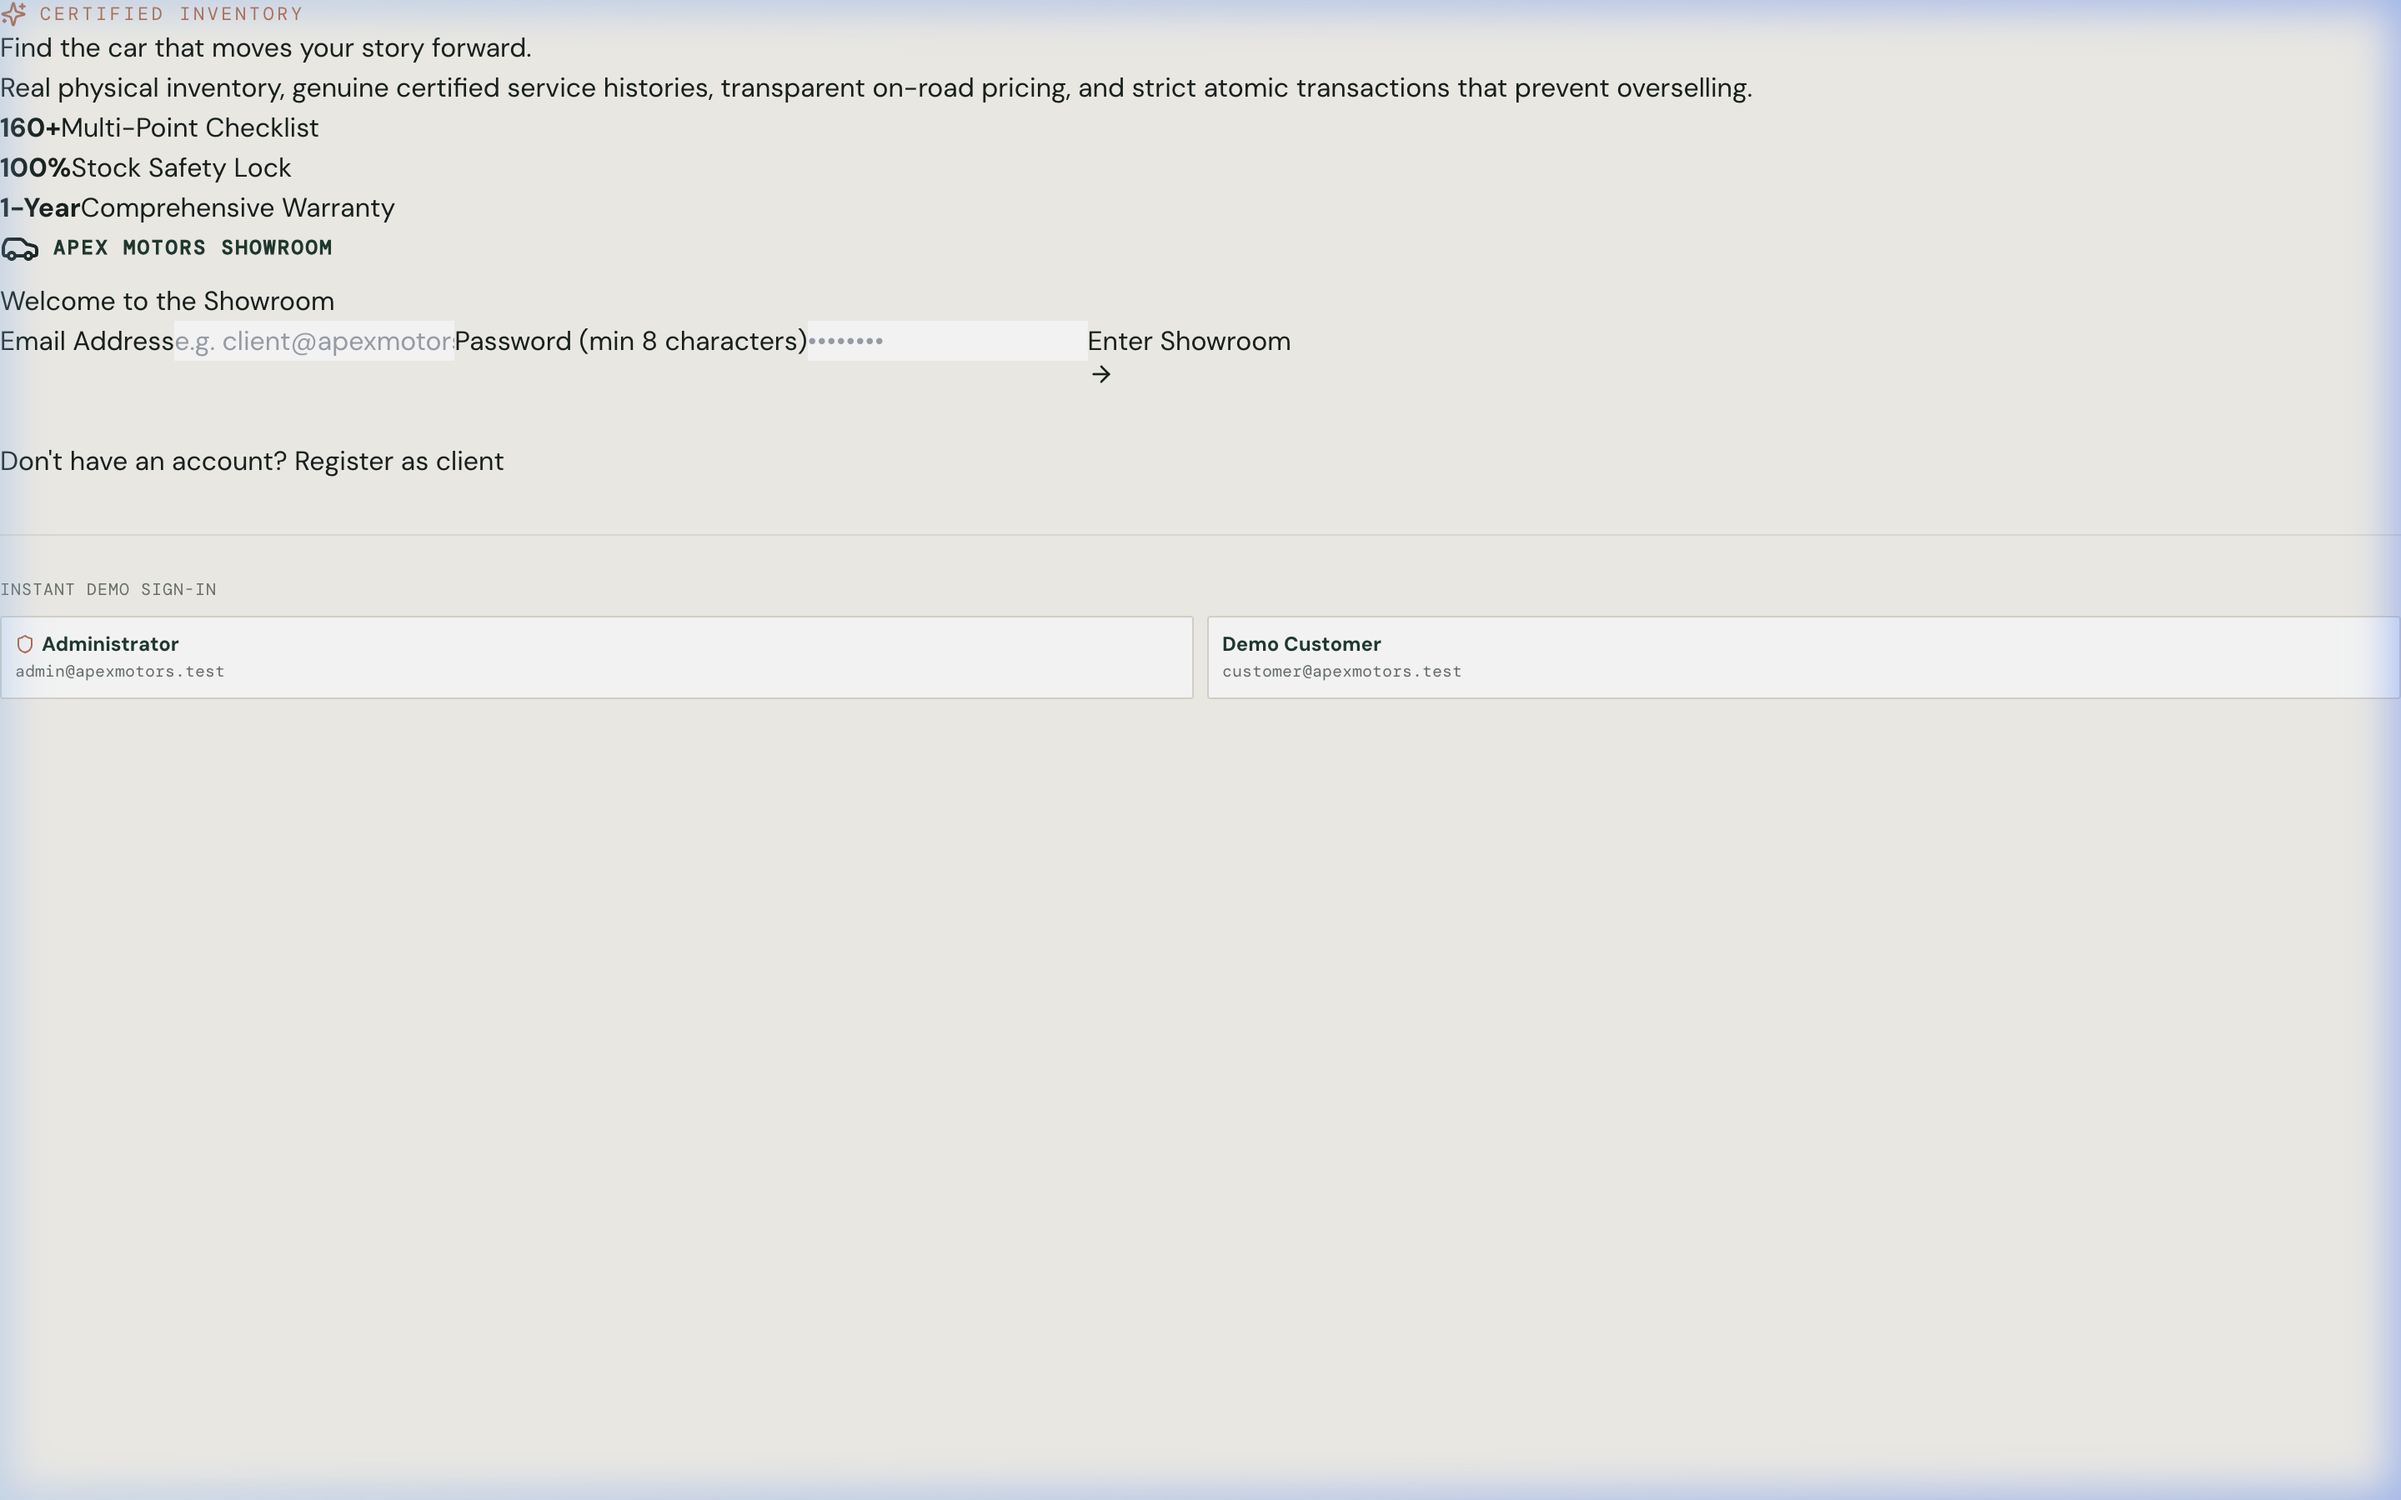
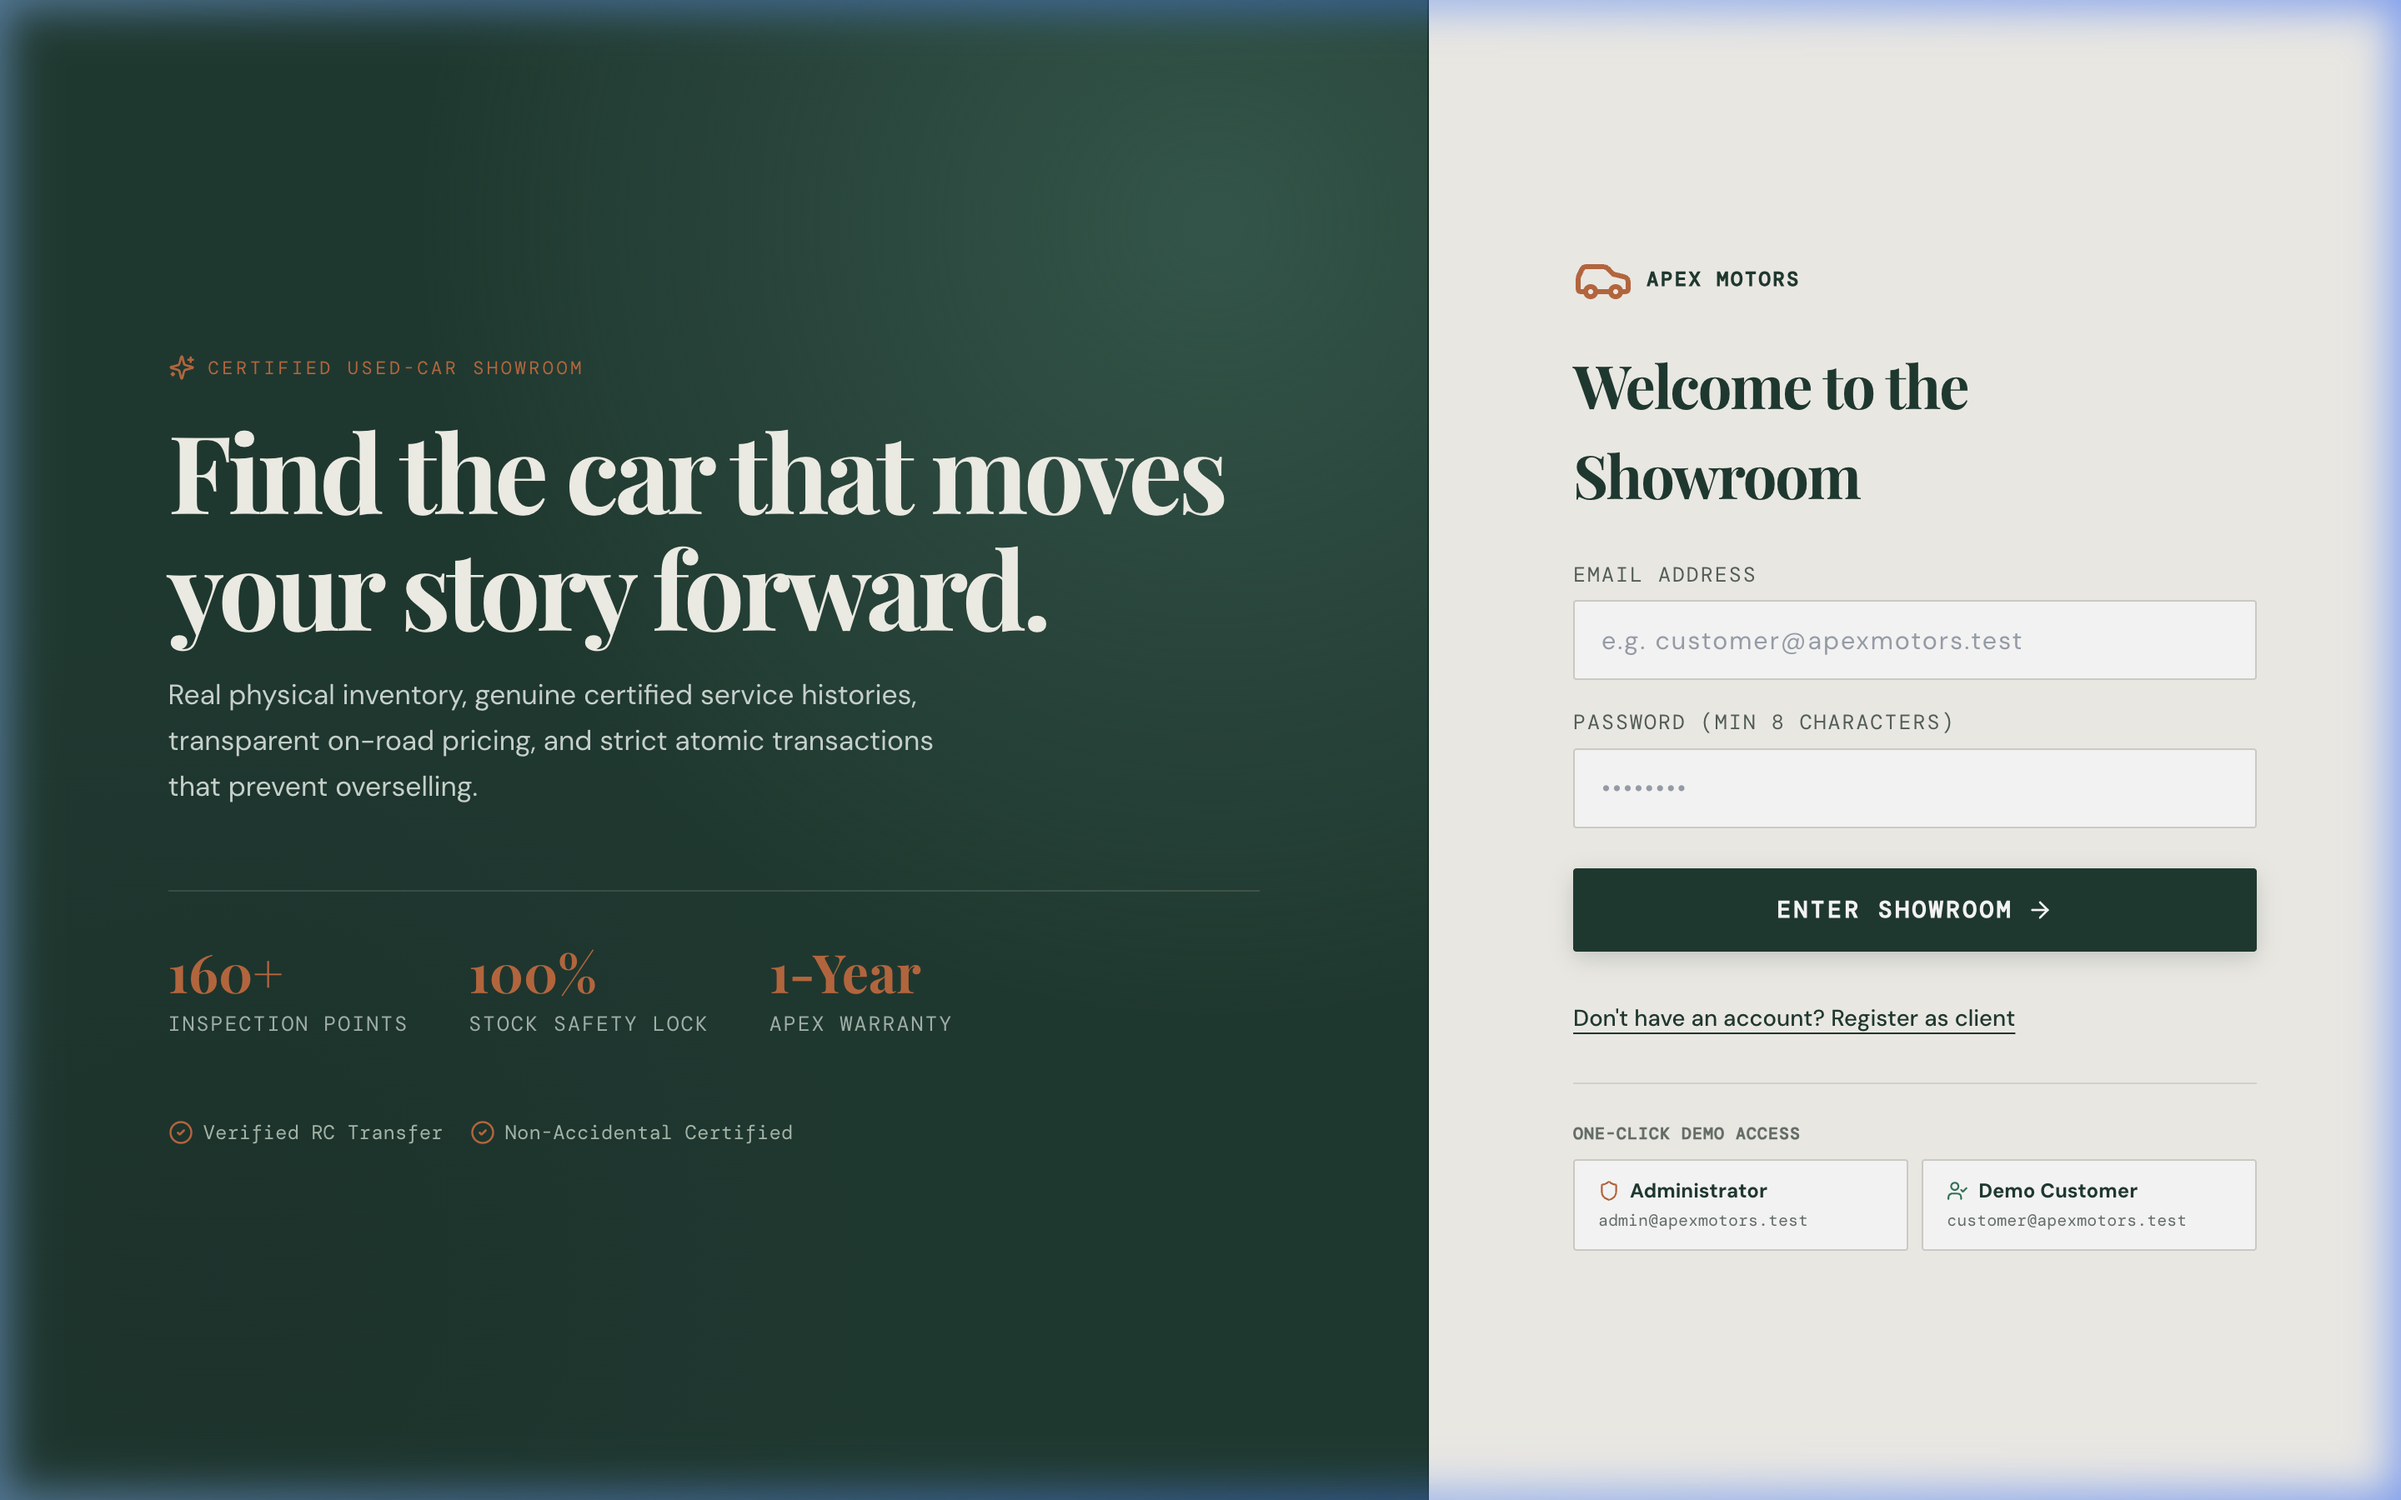
style: polish authentication and client registration styling
- Restore and refine dual-pane auth layout with editorial forest green hero and ivory card
- Add styled input fields with uppercase monospace labels and focus ring transitions
- Add 1-click demo access buttons for Administrator and Customer
- Capture updated verified signin and registration screenshots

diff --git a/frontend/src/components/AuthView.tsx b/frontend/src/components/AuthView.tsx
@@ -1,5 +1,5 @@
 import React, { useState } from 'react';
-import { Car, Sparkles, Shield, ArrowRight, Lock, Mail, User as UserIcon } from 'lucide-react';
+import { Car, Sparkles, Shield, ArrowRight, CheckCircle2, UserCheck } from 'lucide-react';
 import { Session } from '../types';
 
 interface AuthViewProps {
@@ -70,10 +70,10 @@ export const AuthView: React.FC<AuthViewProps> = ({ onAuthenticated, apiBase }) 
 
   return (
     <main className="auth-shell">
-      {/* Editorial Hero Branding */}
+      {/* Editorial Luxury Hero Panel */}
       <section className="hero">
         <span className="eyebrow">
-          <Sparkles size={16} /> CERTIFIED INVENTORY
+          <Sparkles size={16} /> CERTIFIED USED-CAR SHOWROOM
         </span>
         <h1>Find the car that moves your story forward.</h1>
         <p>
@@ -84,7 +84,7 @@ export const AuthView: React.FC<AuthViewProps> = ({ onAuthenticated, apiBase }) 
         <div className="stats">
           <div>
             <b>160+</b>
-            <span>Multi-Point Checklist</span>
+            <span>Inspection Points</span>
           </div>
           <div>
             <b>100%</b>
@@ -92,24 +92,33 @@ export const AuthView: React.FC<AuthViewProps> = ({ onAuthenticated, apiBase }) 
           </div>
           <div>
             <b>1-Year</b>
-            <span>Comprehensive Warranty</span>
+            <span>Apex Warranty</span>
           </div>
+        </div>
+
+        <div className="mt-12 flex items-center gap-4 text-xs font-mono text-[#a8beaf]">
+          <span className="flex items-center gap-1.5">
+            <CheckCircle2 size={15} className="text-[#c96535]" /> Verified RC Transfer
+          </span>
+          <span className="flex items-center gap-1.5">
+            <CheckCircle2 size={15} className="text-[#c96535]" /> Non-Accidental Certified
+          </span>
         </div>
       </section>
 
-      {/* Auth Card Panel */}
+      {/* Auth Card Form Panel */}
       <section className="auth-card">
         <div className="flex items-center gap-2 mb-2">
           <Car className="brand" />
           <span className="font-mono text-xs tracking-widest uppercase text-[#183c32] font-bold">
-            Apex Motors Showroom
+            Apex Motors
           </span>
         </div>
 
         <h2>{isRegister ? 'Create Client Account' : 'Welcome to the Showroom'}</h2>
 
         {errorMessage && (
-          <div className="p-3 mb-4 text-xs bg-rose-50 border border-rose-200 text-rose-800 rounded-sm">
+          <div className="p-3 mb-4 text-xs bg-rose-50 border border-rose-300 text-rose-800 rounded-sm">
             {errorMessage}
           </div>
         )}
@@ -118,15 +127,13 @@ export const AuthView: React.FC<AuthViewProps> = ({ onAuthenticated, apiBase }) 
           {isRegister && (
             <label>
               Full Name
-              <div className="relative">
-                <input
-                  required
-                  type="text"
-                  placeholder="e.g. Mira Nair"
-                  value={form.name}
-                  onChange={(e) => setForm({ ...form, name: e.target.value })}
-                />
-              </div>
+              <input
+                required
+                type="text"
+                placeholder="e.g. Mira Nair"
+                value={form.name}
+                onChange={(e) => setForm({ ...form, name: e.target.value })}
+              />
             </label>
           )}
 
@@ -135,7 +142,7 @@ export const AuthView: React.FC<AuthViewProps> = ({ onAuthenticated, apiBase }) 
             <input
               required
               type="email"
-              placeholder="e.g. client@apexmotors.test"
+              placeholder="e.g. customer@apexmotors.test"
               value={form.email}
               onChange={(e) => setForm({ ...form, email: e.target.value })}
             />
@@ -161,7 +168,7 @@ export const AuthView: React.FC<AuthViewProps> = ({ onAuthenticated, apiBase }) 
 
         <button
           type="button"
-          className="link mt-4 text-left"
+          className="link"
           onClick={() => {
             setIsRegister(!isRegister);
             setErrorMessage('');
@@ -170,30 +177,32 @@ export const AuthView: React.FC<AuthViewProps> = ({ onAuthenticated, apiBase }) 
           {isRegister ? 'Already registered? Sign in instead' : "Don't have an account? Register as client"}
         </button>
 
-        {/* Quick Demo Pre-fill Shortcuts */}
-        <div className="mt-8 pt-6 border-t border-[#ddd9cf]/70 text-xs">
-          <span className="text-[10px] font-mono uppercase tracking-wider text-[#68736d] block mb-2">
-            Instant Demo Sign-in
+        {/* 1-Click Demo Pre-fill Shortcuts */}
+        <div className="demo-box">
+          <span className="text-[10px] font-mono uppercase tracking-wider text-[#68736d] block mb-2 font-semibold">
+            One-Click Demo Access
           </span>
           <div className="flex flex-col sm:flex-row gap-2">
             <button
               type="button"
               onClick={() => handleDemoLogin('admin@apexmotors.test', 'Admin123!')}
-              className="flex-1 p-2 text-left bg-white border border-[#ddd9cf] hover:border-[#183c32] rounded-sm transition-colors"
+              className="demo-btn"
             >
-              <div className="font-semibold text-[#183c32] flex items-center gap-1">
-                <Shield size={12} className="text-[#c96535]" /> Administrator
+              <div className="font-semibold text-[#183c32] flex items-center gap-1.5 text-xs">
+                <Shield size={13} className="text-[#c96535]" /> Administrator
               </div>
-              <div className="text-[10px] font-mono text-[#68736d]">admin@apexmotors.test</div>
+              <div className="text-[10px] font-mono text-[#68736d] mt-0.5">admin@apexmotors.test</div>
             </button>
 
             <button
               type="button"
               onClick={() => handleDemoLogin('customer@apexmotors.test', 'Customer123!')}
-              className="flex-1 p-2 text-left bg-white border border-[#ddd9cf] hover:border-[#183c32] rounded-sm transition-colors"
+              className="demo-btn"
             >
-              <div className="font-semibold text-[#183c32]">Demo Customer</div>
-              <div className="text-[10px] font-mono text-[#68736d]">customer@apexmotors.test</div>
+              <div className="font-semibold text-[#183c32] flex items-center gap-1.5 text-xs">
+                <UserCheck size={13} className="text-emerald-700" /> Demo Customer
+              </div>
+              <div className="text-[10px] font-mono text-[#68736d] mt-0.5">customer@apexmotors.test</div>
             </button>
           </div>
         </div>

diff --git a/frontend/src/styles.css b/frontend/src/styles.css
@@ -274,3 +274,218 @@ header.hero-header em {
     transform: translateY(0) scale(1);
   }
 }
+
+/* ==================== AUTHENTICATION & LOGIN PAGE ==================== */
+.auth-shell {
+  min-height: 100vh;
+  display: grid;
+  grid-template-columns: 1.25fr 0.85fr;
+  background-color: var(--color-bg);
+}
+
+.hero {
+  padding: 8vw 7vw;
+  background-color: var(--color-primary);
+  color: #f8f5ed;
+  background-image:
+    radial-gradient(circle at 85% 15%, #2a5a4c 0%, transparent 45%),
+    radial-gradient(circle at 15% 85%, #16362d 0%, transparent 40%);
+  display: flex;
+  flex-direction: column;
+  justify-content: center;
+  position: relative;
+  overflow: hidden;
+  border-right: 1px solid #14332b;
+}
+
+.hero h1 {
+  font-family: 'Playfair Display', Georgia, serif;
+  font-size: clamp(2.4rem, 4.5vw, 4.2rem);
+  line-height: 1.08;
+  margin: 18px 0 16px;
+  letter-spacing: -0.04em;
+  font-weight: 700;
+  color: #f8f5ed;
+}
+
+.hero p:not(.eyebrow) {
+  max-width: 480px;
+  color: #cddbd4;
+  font-size: 1.05rem;
+  line-height: 1.65;
+}
+
+.stats {
+  margin-top: 48px;
+  display: flex;
+  gap: 36px;
+  flex-wrap: wrap;
+  padding-top: 32px;
+  border-top: 1px solid rgba(255, 255, 255, 0.12);
+}
+
+.stats div {
+  display: flex;
+  flex-direction: column;
+}
+
+.stats b {
+  color: var(--color-accent);
+  font-size: 2rem;
+  font-family: 'Playfair Display', Georgia, serif;
+  font-weight: 700;
+  line-height: 1;
+}
+
+.stats span {
+  font-size: 0.78rem;
+  font-family: 'DM Mono', monospace;
+  text-transform: uppercase;
+  letter-spacing: 0.08em;
+  color: #a4b8af;
+  margin-top: 6px;
+}
+
+.auth-card {
+  padding: 60px max(6vw, 32px);
+  display: flex;
+  flex-direction: column;
+  justify-content: center;
+  background-color: var(--color-bg);
+  min-height: 100vh;
+}
+
+.auth-card .brand {
+  width: 36px;
+  height: 36px;
+  color: var(--color-accent);
+}
+
+.auth-card h2 {
+  font-family: 'Playfair Display', Georgia, serif;
+  font-size: 2.25rem;
+  margin: 10px 0 24px;
+  color: var(--color-primary);
+  letter-spacing: -0.03em;
+  font-weight: 700;
+}
+
+.auth-card form {
+  display: flex;
+  flex-direction: column;
+  gap: 16px;
+}
+
+.auth-card label {
+  font-size: 0.78rem;
+  font-family: 'DM Mono', monospace;
+  text-transform: uppercase;
+  letter-spacing: 0.08em;
+  color: #55625c;
+  display: flex;
+  flex-direction: column;
+  gap: 6px;
+}
+
+.auth-card input {
+  height: 48px;
+  padding: 0 16px;
+  border: 1px solid #d7d4cc;
+  background: #ffffff;
+  color: #17221f;
+  font-size: 0.95rem;
+  font-family: 'DM Sans', sans-serif;
+  border-radius: 2px;
+  outline: none;
+  transition: all 0.2s ease;
+}
+
+.auth-card input:focus {
+  border-color: var(--color-primary);
+  box-shadow: 0 0 0 3px rgba(24, 60, 50, 0.12);
+}
+
+.auth-card form button {
+  height: 50px;
+  background-color: var(--color-primary);
+  color: #ffffff;
+  border: none;
+  border-radius: 2px;
+  font-size: 0.88rem;
+  font-family: 'DM Mono', monospace;
+  text-transform: uppercase;
+  letter-spacing: 0.12em;
+  font-weight: 600;
+  display: flex;
+  align-items: center;
+  justify-content: center;
+  gap: 8px;
+  margin-top: 8px;
+  box-shadow: 0 4px 14px rgba(24, 60, 50, 0.2);
+  transition: all 0.25s ease;
+}
+
+.auth-card form button:hover {
+  background-color: var(--color-primary-light);
+  transform: translateY(-1px);
+  box-shadow: 0 6px 20px rgba(24, 60, 50, 0.28);
+}
+
+.auth-card form button:disabled {
+  background-color: #c5cac7;
+  cursor: not-allowed;
+  transform: none;
+  box-shadow: none;
+}
+
+.auth-card .link {
+  background: none;
+  border: none;
+  color: var(--color-primary);
+  font-size: 0.86rem;
+  text-decoration: underline;
+  text-underline-offset: 4px;
+  text-align: left;
+  margin-top: 14px;
+  padding: 0;
+  font-weight: 500;
+}
+
+.auth-card .link:hover {
+  color: var(--color-accent);
+}
+
+.auth-card .demo-box {
+  margin-top: 28px;
+  padding-top: 22px;
+  border-top: 1px solid #dfdbd2;
+}
+
+.auth-card .demo-btn {
+  background: #ffffff;
+  border: 1px solid #d7d4cc;
+  padding: 10px 14px;
+  border-radius: 2px;
+  text-align: left;
+  transition: all 0.2s ease;
+  flex: 1;
+}
+
+.auth-card .demo-btn:hover {
+  border-color: var(--color-primary);
+  box-shadow: 0 2px 8px rgba(24, 60, 50, 0.08);
+}
+
+@media (max-width: 860px) {
+  .auth-shell {
+    grid-template-columns: 1fr;
+  }
+  .hero {
+    padding: 60px 24px;
+  }
+  .auth-card {
+    padding: 40px 24px 60px;
+    min-height: auto;
+  }
+}
+
